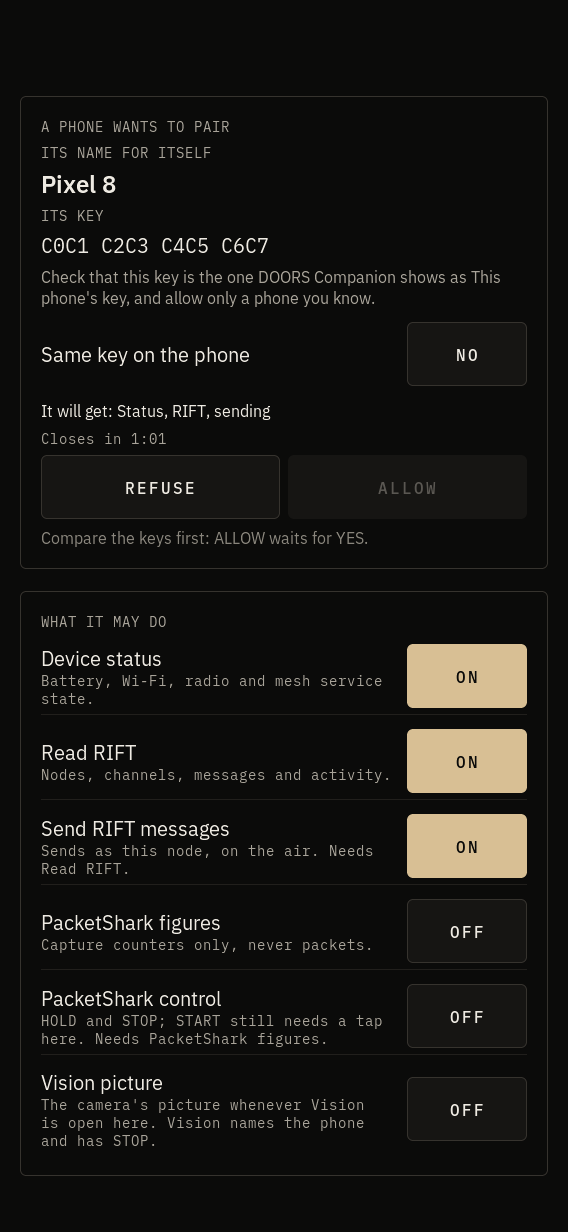
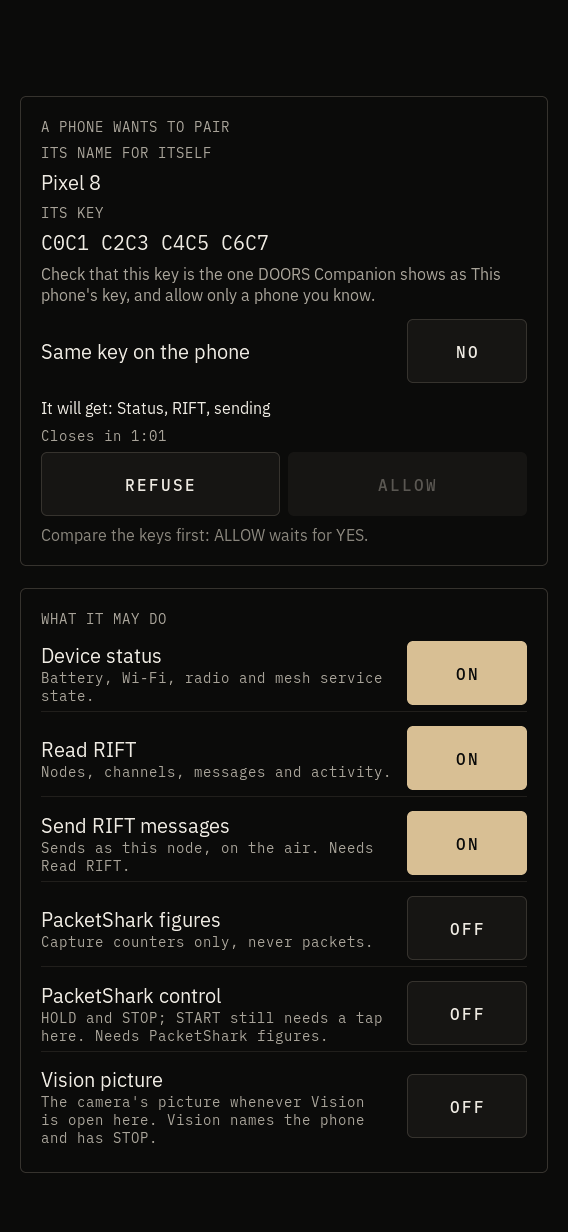
docs: the independent review of Companion Settings 2.0 and what was done about it
GATEWAYD.md gets the review (no blocker; the reload-on-retry finding and the
others fixed, three left and said). The amendment, docs/api/system.md and
gateway.md section 10 say what changed: the running sshd reloaded on every
job, the stricter sshd_config judgement, the time limit, the rollback to
off, the per-unit file rule, pair_decide's fingerprint, and what of the
password is wiped and what is not. The four decide screens show the smaller
candidate name.

diff --git a/docs/decisions/ADR-019-amendment-2-product-integration.md b/docs/decisions/ADR-019-amendment-2-product-integration.md
@@ -44,20 +44,20 @@ Device password: (a) sysd hashes with libxcrypt and writes `/etc/shadow` (chosen
    - the work runs in a child process, as `radio_setup` does, so sysd keeps answering and the shell never waits on a stop;
    - **enabling** is refused unless gatewayd and its init script are installed and root has a password (rule 9b; the same rule as gatewayd's, from the same source file, `gw_gate.c`). SSH is hardened first (decision 5). Then `GATEWAYD_ENABLE=1` is written (other lines kept), the script is run, and gatewayd must answer `gateway.status` within 10 s; otherwise the previous value is written back and the service stopped;
    - **disabling** is always accepted: `GATEWAYD_ENABLE=0` is written *before* the stop, so a stop that fails still leaves a unit that will not start the gateway at the next boot (fail closed).
-   sysd's socket is root-only like every pocketipc socket; no gateway allowlist entry can reach it (ADR-019 rule 25 already excludes `system.*` changes; `tests/gatewayd_lint.sh` now also refuses the `companion.` prefix in gatewayd).
+   sysd's socket is root-only like every pocketipc socket; no gateway allowlist entry can reach it (ADR-019 rule 25 already excludes `system.*` changes; `tests/sysd_companion_lint.sh` refuses the `companion.` prefix anywhere in gatewayd).
 
 4. **The device password is set on the unit (U7)**: Settings > Companion > Device password, typed twice. sysd checks it (8 to 64 printable ASCII characters), hashes it with libxcrypt as SHA-512 crypt (`$6$`, a 16-character salt from `getrandom`), the library and scheme the image's sshd and BusyBox already verify, and writes root's password field in `/etc/shadow` under `lckpwdf()`: a temp file in `/etc`, 0600, fsync, rename, fsync of the directory; every other line and field unchanged. It then reads the result back through `gw_gate_password_set()`, the definition rule 9b uses, compiled into sysd from `services/gatewayd/gw_gate.c` so "a password is set" has one definition. "Configured" means what U7 proposed: root's `/etc/passwd` field is `x` and `/etc/shadow` holds a hash. Any other layout (a hash or an empty field in `/etc/passwd` itself, no shadow file) is refused, not rewritten.
-   - The password crosses one root-only Unix socket, shell to sysd, as a Wi-Fi passphrase crosses to netd (ADR-003); Settings clears its fields before it waits for the answer; sysd forks the job and wipes its copy, the child wipes its copy after hashing; nothing logs it (lint). Doors stores no secret: the system stores its own hash, where `passwd` would.
+   - The password crosses one root-only Unix socket, shell to sysd, as a Wi-Fi passphrase crosses to netd (ADR-003). Settings clears its fields before it sends; pocketipc wipes the request's bytes on both ends (the printed request, the server's read buffer and its frame reader); sysd wipes its copy when the job is forked; the job hashes it first, wipes it, and only then hardens SSH; nothing logs it (lint). What is not wiped is said, not hidden: LVGL's own freed text buffers in the shell, and freed heap, may hold it until reused - as for the Wi-Fi passphrase. Doors stores no secret: the system stores its own hash, where `passwd` would.
    - **No current password is asked to change it.** The unit is already root for anyone at its unlocked screen (Terminal), so asking would protect nothing and would lock out an owner who forgot it.
    - What it is for afterwards: the serial console's login and `su`; after decision 5 not root over SSH.
 
 5. **SSH is hardened, in the image and on every unit before it gets a password or a gateway** (issue #172):
    - Image: `apply_to_sdk.sh` patches the vendor `sshd_config`: `PermitRootLogin yes` becomes `PermitRootLogin prohibit-password`, and `verify_image.sh` refuses an image whose `sshd_config` permits root by password.
-   - Units deployed over an older card keep their old file, so sysd hardens it as the first step of both jobs: every `PermitRootLogin` with an unsafe value becomes `prohibit-password` (one is added at the top when there is none), the result is checked with `sshd -t -f`, a copy of the original is kept once as `sshd_config.doors-orig`, the new file replaces the old by rename, and sshd is reloaded (`S50sshd reload`; sessions already open stay). A failure at any point stops the job before the password or the switch changes.
-   - "Hardened" is: at least one `PermitRootLogin` before the first `Match`, and every one in the file is `prohibit-password`, `without-password`, `forced-commands-only` or `no`. A file sysd cannot judge (an `Include` line, or one it cannot read) is "unknown", and unknown is refused, never assumed safe. No sshd installed is "absent": nothing listens.
+   - Units deployed over an older card keep their old file, so sysd hardens it as the first step of both jobs: every `PermitRootLogin` with an unsafe value becomes `prohibit-password` (one is added at the top when there is none), the result is checked with `sshd -t -f` when sshd is there, a copy of the original is kept once as `sshd_config.doors-orig`, and the new file replaces the old by rename. Then - **whether or not the file had to change** - a running sshd (by its pid file, or by name in `/proc`) is reloaded (`S50sshd reload`; sessions already open stay), and a reload that fails ends the job. That is what makes a retry safe: a file hardened by a run whose reload failed is not taken as proof that the running server is. A failure at any point stops the job before the password or the switch changes.
+   - "Hardened" is: at least one `PermitRootLogin` before the first `Match`, and every one in the file is `prohibit-password`, `without-password`, `forced-commands-only` or `no`. A file sysd cannot judge as sshd reads it - an `Include` line, a quoted keyword, a line with no keyword before its `=`, a NUL byte, or one it cannot read - is "unknown", and unknown is refused, never assumed safe. A configuration whose sshd is not runnable is still judged and hardened. "Absent" is neither an sshd nor its configuration: nothing listens.
    - Consequence: once Companion is used, root signs in over SSH with a key only. The page says so before the button is tapped.
 
-6. **The pairing candidate is part of `gateway.status`** on the local socket: `pair {state, left_ms, candidate {name, fingerprint}}` while a window is open, and `pair_closed`, why the last one closed. Settings is a one-shot pocketipc client, polled once a second like every Settings page, and cannot hold the subscription the `gateway.candidate` event needs (the reason the bench path cannot show the key first, issue #172). The candidate's fingerprint is its public key's hash; the token stays where it was, in `gateway.pair_begin`'s answer alone. Compatible (an added field; `docs/api/gateway.md` section 2).
+6. **The pairing candidate is part of `gateway.status`** on the local socket: `pair {state, left_ms, candidate {name, fingerprint}}` while a window is open, and `pair_closed`, why the last one closed. Settings is a one-shot pocketipc client, polled once a second like every Settings page, and cannot hold the subscription the `gateway.candidate` event needs (the reason the bench path cannot show the key first, issue #172). The candidate's fingerprint is its public key's hash; the token stays where it was, in `gateway.pair_begin`'s answer alone. Compatible (an added field; `docs/api/gateway.md` section 2). `gateway.pair_decide` takes, optionally, the `fingerprint` the person compared; given, the decision is for that phone only, and another phone waiting at that moment is decided nothing about (Settings then closes the window).
 
 7. **Settings > Companion** (the Settings half of U12): the gateway switch with its state in words; the device password; the paired phones with connection state and permissions, one page each with its permission switches and Remove; Pair a phone: a QR code drawn by LVGL from the URI (ADR-007 holds: no TLS and no gateway code in the shell), a countdown, Cancel, and - when a phone has presented the token - its name and key, a "keys match" confirmation that ALLOW waits for, the permissions it gets, REFUSE and ALLOW. Leaving the page, Back, Home or the app closing cancels an open window. The status-cluster mark of U12 is not part of this amendment.
 
@@ -71,12 +71,16 @@ Needed now: this amendment; `services/sysd/sysd_companion.[ch]`; the `pair` fiel
 
 Before a unit runs it (each with its own go-ahead, as ADR-019 says): the hardware gate of ADR-019 and the checks of this amendment below; an image build with `verify_image.sh`.
 
+An independent review of the implementation (2026-11-25; code only, nothing run) found no blocker and no path from a phone or the network to `companion.*`. Its findings and what was done about each are in `docs/services/GATEWAYD.md`, "Independent review of the product integration".
+
 Risks accepted with this amendment:
 
 - sysd can now write `/etc/shadow` and `/etc/ssh/sshd_config`. Bounded: fixed paths, fixed transformations, a child process, the result read back.
 - An operator who signed in as root over SSH by password loses that the first time Companion is set up. Keys keep working; the page says so first.
 - A new image no longer accepts root's password over SSH at all; bench practice is a key in `/root/.ssh/authorized_keys` (the deploy scripts already use keys: `BatchMode=yes`).
 - The serial console asks for the device password once one is set. A forgotten password is recovered on the unit (Terminal: `passwd`) or by editing the card.
+- `lckpwdf()` does not exclude BusyBox `passwd` running at the same moment in Terminal: the last rename wins. Neither file is corrupted.
+- A pre-authentication SSH connection accepted before the reload keeps the old configuration for its login grace time; it still needs the new password.
 - Not verified on a unit: libxcrypt's hash at run time, the shadow write and `lckpwdf()`, `sshd -t` and the reload, S70gatewayd run by sysd, the QR code read from the panel (H10).
 
 ## Evidence

diff --git a/docs/services/GATEWAYD.md b/docs/services/GATEWAYD.md
@@ -163,7 +163,7 @@ Proposed 2026-11-25 and implemented on branch `claude/companion-settings-2-aad74
 | The candidate on the unit | `gateway.status` `pair` and `pair_closed` | Settings, which polls, shows the waiting phone's key before the decision |
 | Settings > Companion | `apps/settings/settings_companion.c` (`docs/apps/SETTINGS.md`) | The switch, the password, the phones and their permissions, Remove, Pair a phone with a QR code |
 
-Tests: `tests/sysd_companion_test.c` (75), `tests/sysd_companion_lint.sh` (9), `tests/companion_settings_integration_test.py` (39: the real sysd and gatewayd and a TLS phone, then a sysd restart and a "reboot" with a new binary), `tests/settings_view_test.c` (88 new), `tests/settings_app_test.c` (the Companion section), `tests/initscript_test.sh` (S70gatewayd under the real pos-supervise, the deploy order), the release-gate suites. **Not run on a unit**: the hash and the shadow write on the board, `sshd -t` and the reload there, sysd running S70gatewayd, the QR code read from the panel by a phone (README H10).
+Tests: `tests/sysd_companion_test.c` (90), `tests/sysd_companion_lint.sh` (9), `tests/companion_settings_integration_test.py` (39: the real sysd and gatewayd and a TLS phone, then a sysd restart and a "reboot" with a new binary), `tests/settings_view_test.c` (88 new), `tests/settings_app_test.c` (the Companion section), `tests/initscript_test.sh` (S70gatewayd under the real pos-supervise, the deploy order), the release-gate suites. **Not run on a unit**: the hash and the shadow write on the board, `sshd -t` and the reload there, sysd running S70gatewayd, the QR code read from the panel by a phone (README H10).
 
 ## Building and testing
 
@@ -193,7 +193,7 @@ Classes as in AGENTS.md. Measured 2026-11-21 on the build host (x86-64, WSL Ubun
 | **M4.2.** That the real meshcored reads a connection's requests in order, records an outgoing message the moment it accepts it, hands out ids in order, keeps 64 messages of each kind and loses the oldest first, and sends nothing when it answers with an error | DOCUMENTED (read in `services/meshcored/api.c`, `mesh_runtime.cpp`, `core/pocketipc/server.c`; the ring sizes are held by the lint). Not run against |
 | **M4.2.** A message actually on the air, and a phone as the client | **not tested** |
 | **M4.1.** The real meshcored | **not tested**: the suite's meshcored is a fake written from `docs/api/mesh.md` and `services/meshcored/api.c`. That the real service's results and events have the documented shape, that it writes an event before the answer to a later request, and its 200 ms backpressure rule against this client are ASSUMED |
-| The real service against TLS clients: gate, closed until asked, pairing, failed handshakes (no certificate, TLS 1.2, RSA, P-384, unknown key, two certificates, plaintext), no resumption, scopes, revocation, malformed and oversized frames, limits, upstream failures, restart, damaged and missing state, log contents: 198 checks (190 before ADR-019 amendment 2; the 8 added hold the pairing window and its candidate in `gateway.status`, and that the token is never there) | VERIFIED host, plain and ASan/UBSan (`tests/gatewayd_e2e_test.py`) |
+| The real service against TLS clients: gate, closed until asked, pairing, failed handshakes (no certificate, TLS 1.2, RSA, P-384, unknown key, two certificates, plaintext), no resumption, scopes, revocation, malformed and oversized frames, limits, upstream failures, restart, damaged and missing state, log contents: 200 checks (190 before ADR-019 amendment 2; the 10 added hold the pairing window and its candidate in `gateway.status`, that the token is never there, and that a decision bound to another key decides nothing) | VERIFIED host, plain and ASan/UBSan (`tests/gatewayd_e2e_test.py`) |
 | The fingerprint equals the SHA-256 of the SubjectPublicKeyInfo as the `openssl` tool writes it | VERIFIED host (unit and service suites) |
 | riscv64 build: warning-free with `-Werror`, Xuantie GCC 14.1.1, against the v0.4.0 release build's sysroot; links `libssl.so.3`, `libcrypto.so.3`, `libcjson.so.1`, all present in that build's target tree | VERIFIED (cross-build only) |
 | The v0.4.0 sysroot's OpenSSL is 3.4.1 with none of `OPENSSL_NO_TLS1_3`, `_EC`, `_ECDSA`, `_ECDH` defined | VERIFIED (headers); the library's behaviour on a unit is not |
@@ -201,6 +201,31 @@ Classes as in AGENTS.md. Measured 2026-11-21 on the build host (x86-64, WSL Ubun
 | A phone client | **not tested against**: every client in these suites is the Python reference client |
 
 Not tested on the host either: the 10 s handshake and hello deadlines, the 90 s idle timeout and the 120 s window in real time (the pairing deadlines are tested with the state machine's own clock); an address change of the interface; `S70gatewayd` beyond parsing and the disabled default.
+
+## Independent review of the product integration (2026-11-25)
+
+A second reviewer, given the change and the specification and not the author's conclusions, read sysd's `companion.*`, the gatewayd status change, Settings > Companion and the packaging for paths from a phone or the network to the switch or the password, injection, fail-open behaviour, secret handling, the shadow rewrite, the status's new fields, the candidate confirmation, and contradictions with ADR-019. It built and ran nothing.
+
+**No blocker:** no path from a phone or the network to `companion.*` (served on `sysd.sock` alone; gatewayd's only sysd rows are `system.info` and `system.status`), no command injection (fixed argv, `execv`, no shell), no logging of the password, no way past the ALLOW confirmation (it is enforced where the decision is built, not only by the button).
+
+Fixed before the PR:
+
+| Finding | Fix |
+| --- | --- |
+| **A retry after a failed sshd reload could set the password** while the running sshd still let root in by password: the file on disk was hardened by then, the job judged it alone and skipped the reload. Also: an sshd whose pid file is missing was not reloaded | Every password and enable job reloads a running sshd whatever the file says; a running sshd is found by its pid file or by name in `/proc`. Tested: a failed reload, a retry (still no password, and no gateway), the reload working (password set); an sshd without its pid file |
+| Lines sshd reads otherwise than sysd's parser (a quoted keyword, no keyword before `=`, a NUL byte) | Judged unknown and refused, in sysd and the image gate; CR read as whitespace, as sshd does |
+| A configuration whose sshd is merely not executable was left open | Hardened all the same; "absent" is neither sshd nor its configuration |
+| Plaintext copies of the password: pocketipc's server read buffer, the client's printed request, the job holding it through `sshd -t` and the reload | Both pocketipc buffers wiped; the job hashes first. LVGL's own freed text buffers are not wiped (as for the Wi-Fi passphrase), and the documents say so |
+| A hung init script or reload would keep reboot, power-off and every later change refused | A change is stopped after 90 s (`timed_out`) |
+| A failed start restored `GATEWAYD_ENABLE=1` when it had been set by hand, while saying "off again" | A failed start never leaves the switch on |
+| `gateway.pair_decide` was not bound to the key the person compared (only a local process could swap the candidate) | It takes the confirmed `fingerprint`; another phone is decided nothing about, and Settings closes the window. Tested in the service suite and the Settings suite |
+| `S70gatewayd stop` sourced a file sysd edits line by line: a hand-written `if ... fi` around the switch could have been broken, and with it stop | The file is read on start alone; sysd edits only a file of settings lines (`defaults_unsupported` otherwise) |
+| The candidate's self-chosen name, in title type, could imitate key groups | The name is smaller than the key, which is in mono |
+| The amendment named the wrong lint for the `companion.` check | Corrected (`tests/sysd_companion_lint.sh`) |
+
+Left as they are, said in the amendment: `lckpwdf()` does not exclude BusyBox `passwd` at the same moment (the last rename wins; nothing is corrupted); the pairing token stays in freed heap and in the QR code's canvas until reused or deleted (one-time, at most 120 s); a pre-authentication SSH connection accepted before the reload keeps the old configuration for its login grace time (it still needs the new password).
+
+The reviewer could not assess, and nobody has: what `S50sshd reload` does on older cards, sshd started with another `PidFile`, other daemons on the image that might accept root's password, `lckpwdf` on the image's libc, and anything at run time on a unit.
 
 ## Independent review (2026-11-21)
 

diff --git a/docs/api/system.md b/docs/api/system.md
@@ -541,11 +541,17 @@ makes root's SSH login key-only. Every `PermitRootLogin` in
 `/etc/ssh/sshd_config` must be `prohibit-password`, `without-password`,
 `forced-commands-only` or `no`, with one before the first `Match`. If not,
 the unsafe lines become `prohibit-password`, or one is added at the top when
-there is none. The result is checked with `sshd -t -f`; the original is kept
-once as `sshd_config.doors-orig`; the new file replaces the old by rename; and
-sshd is reloaded (`S50sshd reload`) if it runs. A file sysd cannot judge (an
-`Include` line, or unreadable) is refused. Any failure ends the change before
-the password or the switch is touched. No sshd installed: nothing to harden.
+there is none. The result is checked with `sshd -t -f` when sshd is installed;
+the original is kept once as `sshd_config.doors-orig`; the new file replaces
+the old by rename. Then, whether or not the file changed, a running sshd (found
+by `/var/run/sshd.pid` or by name in `/proc`) is reloaded (`S50sshd reload`), and
+a reload that fails ends the change: a file hardened by an earlier run whose
+reload failed is not proof that the running server reads it. A file sysd cannot
+judge as sshd reads it (an `Include` line, a quoted keyword, a line with no
+keyword before its `=`, a NUL byte, or unreadable) is refused. Any failure ends
+the change before the password or the switch is touched. Neither sshd nor its
+configuration: nothing to harden. A change that has not finished in 90 s is
+stopped (`timed_out`).
 
 #### companion.status
 
@@ -561,7 +567,7 @@ there and executable. `enabled`: `GATEWAYD_ENABLE=1`. `running`: the daemon
 `pos-supervise` records in `/run/pocketos/gatewayd.pid` is alive.
 `password_set`: root has a password hash, by gatewayd's own rule (sysd compiles
 `services/gatewayd/gw_gate.c`). `ssh`: `hardened`, `open`, `unknown` or
-`absent`, as above. `state`: `idle`, `running`, `done` or `failed`, for the
+`absent` (neither sshd nor its configuration), as above. `state`: `idle`, `running`, `done` or `failed`, for the
 running or last change, which `action` names (`enable`, `disable`, `password`).
 `error` and `message` are there when it failed.
 
@@ -576,7 +582,11 @@ once with `{"state": "running"}`; `companion.status` follows the change.
   be, `GATEWAYD_ENABLE=1` is written with the file's other lines kept (the file
   is created if there is none), `S70gatewayd start` runs, and gatewayd must
   answer `gateway.status` within 10 s. If it does not, the file is put back
-  as it was and `S70gatewayd stop` runs (`start_failed`, `no_answer`).
+  as it was - or set to 0 if it said 1: a failed start never leaves the switch
+  on - and `S70gatewayd stop` runs (`start_failed`, `no_answer`). sysd edits
+  only a file of blank lines, comments and `NAME=value` lines
+  (`S70gatewayd` sources it); any other is left to the hand that wrote it
+  (`defaults_unsupported`).
 - `false` is always accepted. `GATEWAYD_ENABLE=0` is written **before**
   `S70gatewayd stop`, so a stop that fails (`stop_failed`) still leaves a unit
   that does not start the gateway at its next boot.
@@ -596,16 +606,18 @@ hardened first. The password is then hashed with libxcrypt as SHA-512 crypt
 (`$6$`, a 16-character salt from `getrandom`). Root's field in `/etc/shadow`
 is replaced under `lckpwdf()`: temp file, fsync, rename, directory fsync, mode
 0600, every other line and field kept. Last, gatewayd's own gate must read it
-back as set (`password_failed` otherwise). The password is never logged. sysd
-wipes its copy when the child is started; the child wipes its copy once it is
-hashed. No current password is asked for: whoever has the unit's unlocked
+back as set (`password_failed` otherwise). The password is never logged.
+pocketipc wipes the request's bytes; sysd wipes its copy when the child is
+started; the child hashes it first and wipes it before it hardens SSH. No
+current password is asked for: whoever has the unit's unlocked
 screen is root already (Terminal).
 
 Errors carry `"<word>: <sentence>"`, the word for a program (Settings turns it
 into its own words) and the sentence for a person at `doors call`:
 `not_installed`, `password_required`, `ssh_unknown`, `ssh_failed`,
-`write_failed`, `start_failed`, `no_answer`, `stop_failed`, `busy`,
-`invalid_password`, `password_layout`, `password_failed`. A change that runs
+`write_failed`, `defaults_unsupported`, `start_failed`, `no_answer`,
+`stop_failed`, `busy`, `timed_out`, `invalid_password`, `password_layout`,
+`password_failed`. A change that runs
 reports the same words in `companion.status`.
 
 ### Trust model

diff --git a/docs/api/gateway.md b/docs/api/gateway.md
@@ -270,7 +270,7 @@ pocketipc, root only, for Settings and `doors`. Never reachable from the network
 | `gateway.info`, `gateway.status` | version, `api_version`; enabled, listening address, sessions, and why it is closed if it is: `disabled`, `no_clients`, `password_required` (ADR-019 rule 9b), `identity_fault`. Since ADR-019 amendment 2 the status also carries the pairing window as the unit's Settings page shows it: while one is open, `pair {state, left_ms}`, `state` being `open` (nobody at the door), `candidate` (a phone with an unknown key is connected and has not shown the token) or `waiting` (it has: a person decides), and when waiting `pair.candidate {name, fingerprint}`, the two values of the `gateway.candidate` event. Otherwise, after a window, `pair_closed` says why it closed: `paired`, `refused`, `expired`, `failed` (three wrong tokens), `candidate_left`, `cancelled`. Settings polls this once a second and holds no subscription, so the candidate's key is on the unit's screen before the decision (issue #172). The token is never in the status: it is in `gateway.pair_begin`'s answer alone |
 | `gateway.pair_begin` | opens a window; returns the pairing URI for the QR code and the time left |
 | `gateway.pair_cancel` | closes it |
-| `gateway.pair_decide` `{allow, scopes[]}` | the person's decision about the waiting candidate |
+| `gateway.pair_decide` `{allow, scopes[]}` | the person's decision about the waiting candidate. Optionally `fingerprint` (64 hex digits), the key the person compared on the unit (ADR-019 amendment 2): given, the decision is for that phone only - another one waiting now is decided nothing about (code 3, "not the phone that was confirmed"). Settings > Companion always sends it |
 | `gateway.clients` | the paired list: fingerprint, name, scopes, connected, last seen |
 | `gateway.set_scopes` `{client, scopes[]}` | reduces or changes one client's scopes |
 | `gateway.scope` `{client, scope, on}` | gives (`on: true`) or takes (`on: false`) exactly one named scope of one paired client; answers `{scopes[]}`, the set it holds now. Strings and one boolean, so that the switch on the unit's Settings > Companion page (which names the client by its whole key) and `doors call gatewayd gateway.scope client=<hex> scope=vision on=true` can send it. `client` is a string: the full fingerprint (64 hex digits) or the start of it, at least 8 hex digits, that begins exactly one paired client's (upper or lower case). The CLI sends a value of decimal digits only as a number, and a number is refused: give the prefix long enough to contain a letter `a` to `f`, or in full. Error 2 for anything else: an unknown or ambiguous client, an unknown scope, `on` that is not a boolean, any other member, or a resulting set a client may not hold (`mesh_send` without `mesh_read`, `capture_control` without `capture_view`; give or take the other one first). Stored and applied like `gateway.set_scopes`: a connected client gets `gateway.scopes`, loses the topics the new set does not allow, and taking `vision` from the viewer ends its preview at once (§9a) |

diff --git a/docs/apps/SETTINGS.md b/docs/apps/SETTINGS.md
@@ -65,7 +65,7 @@ apps/settings/settings_wifi.c      Network: Wi-Fi, the list, the join sheet
 apps/settings/settings_companion.c Companion: the gateway switch and the device password (sysd), the phones,
                                    their permissions and Remove, pairing (gatewayd)
 tests/settings_view_test.c         298 checks (Makefile)
-tests/settings_app_test.c          1986 checks under a real LVGL pointer device and the key
+tests/settings_app_test.c          1987 checks under a real LVGL pointer device and the key
                                    stream, with netd, gatewayd, sysd and the shell scripted, hosted as the shell
                                    hosts it: the hierarchy and every way back, every page at
                                    Small, Medium and Large in portrait and landscape (CMake, host)
@@ -129,12 +129,15 @@ in landscape, beside the words; in portrait the width decides. With it are
 what to do, this unit's key, `Closes in 1:47` and CANCEL. The page reads
 `gateway.status` once a second. A phone at the door is "A phone is
 connecting...". One that presented the code shows its name for itself and its
-key in mono (0 and D, 8 and B told apart), with "Same key on the phone" NO/YES.
+key in mono (0 and D, 8 and B told apart; the name, the phone's own claim, is
+the smaller of the two), with "Same key on the phone" NO/YES.
 **ALLOW cannot be tapped until that is YES**, and a different phone's key
 sets it back to NO. Beside the decision: "It will get: Status, RIFT, sending"
 and the six switches (status and RIFT reading and sending on, PacketShark and
 Vision off, as PAIRING.md §4 says). REFUSE and ALLOW send `gateway.pair_decide`
-with the chosen scopes. The window ends in words: paired, refused, the code
+with the key that was compared and the chosen scopes: gatewayd decides about
+that phone only, and if another has taken its place the page says so and
+closes the window. The window ends in words: paired, refused, the code
 expired, closed after wrong codes, the phone left. Each but paired offers SHOW
 A NEW CODE.
 
@@ -150,7 +153,8 @@ and SET PASSWORD. The keyboard's Done moves from the first field to the
 second, and from the second sets the password. Too short, too long, other
 characters and two different passwords are said under the fields, and nothing
 is sent. The fields are cleared **before** `companion.set_password` is sent,
-and when the sheet or the app goes. The page then shows "Setting the
+and when the sheet or the app goes (LVGL's own freed text buffers are not
+wiped, as for the Wi-Fi passphrase). The page then shows "Setting the
 password...", and "Password set. The serial console asks for it from now on."
 to the person who set it.
 
